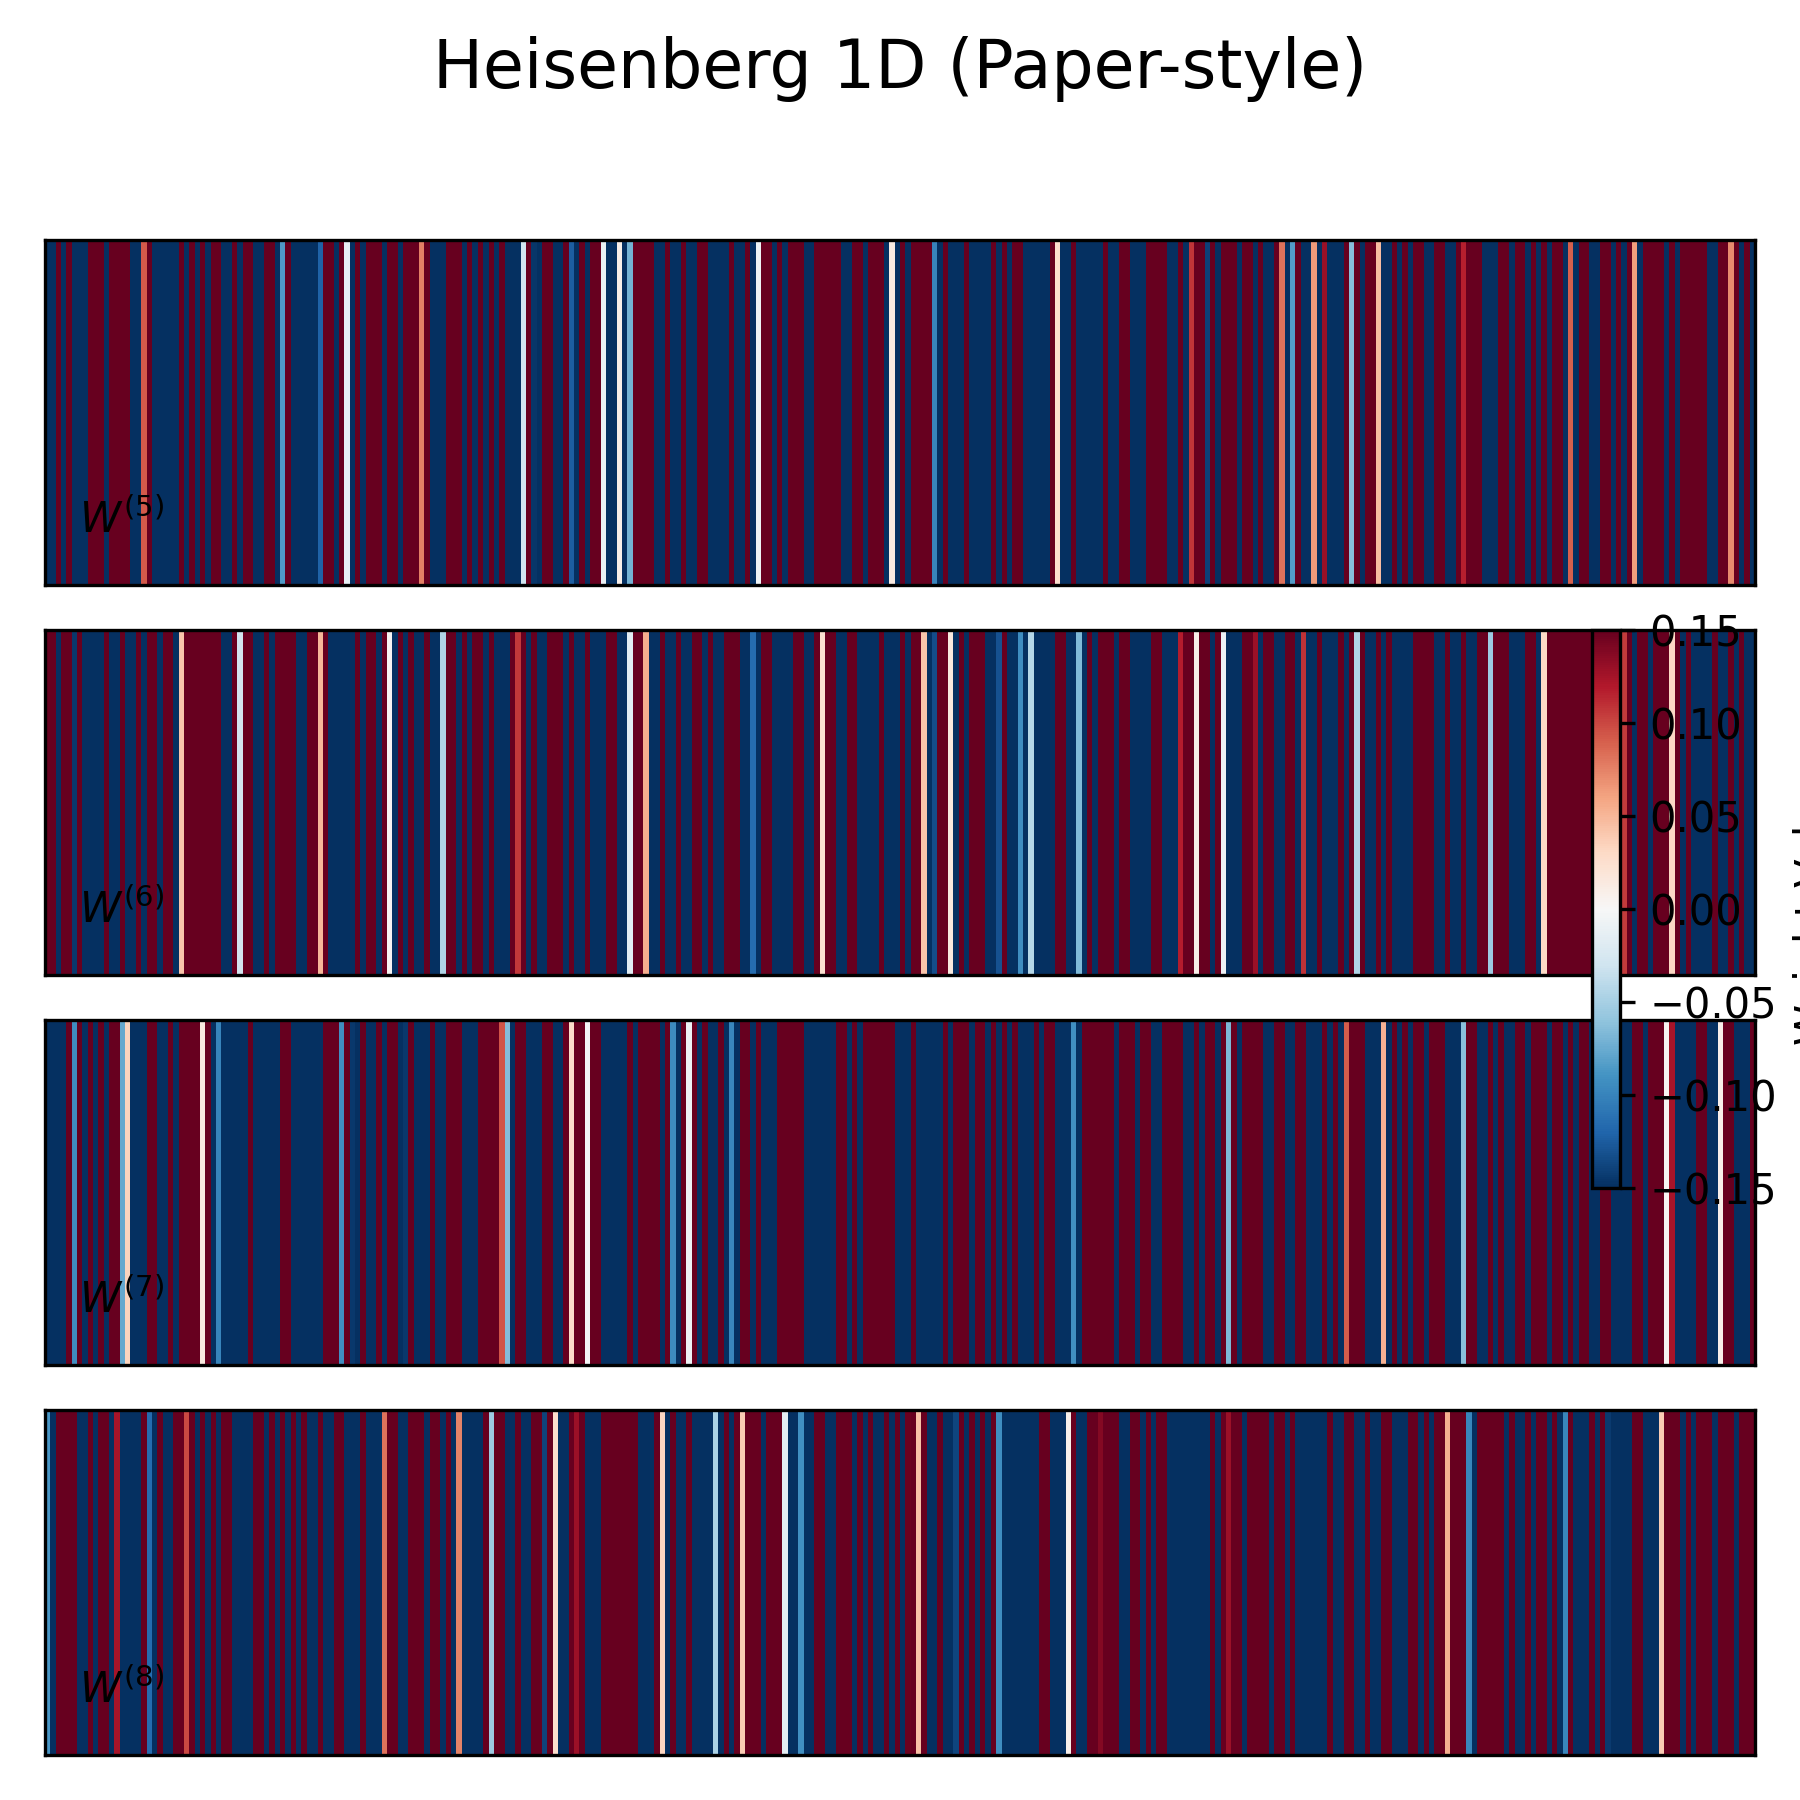
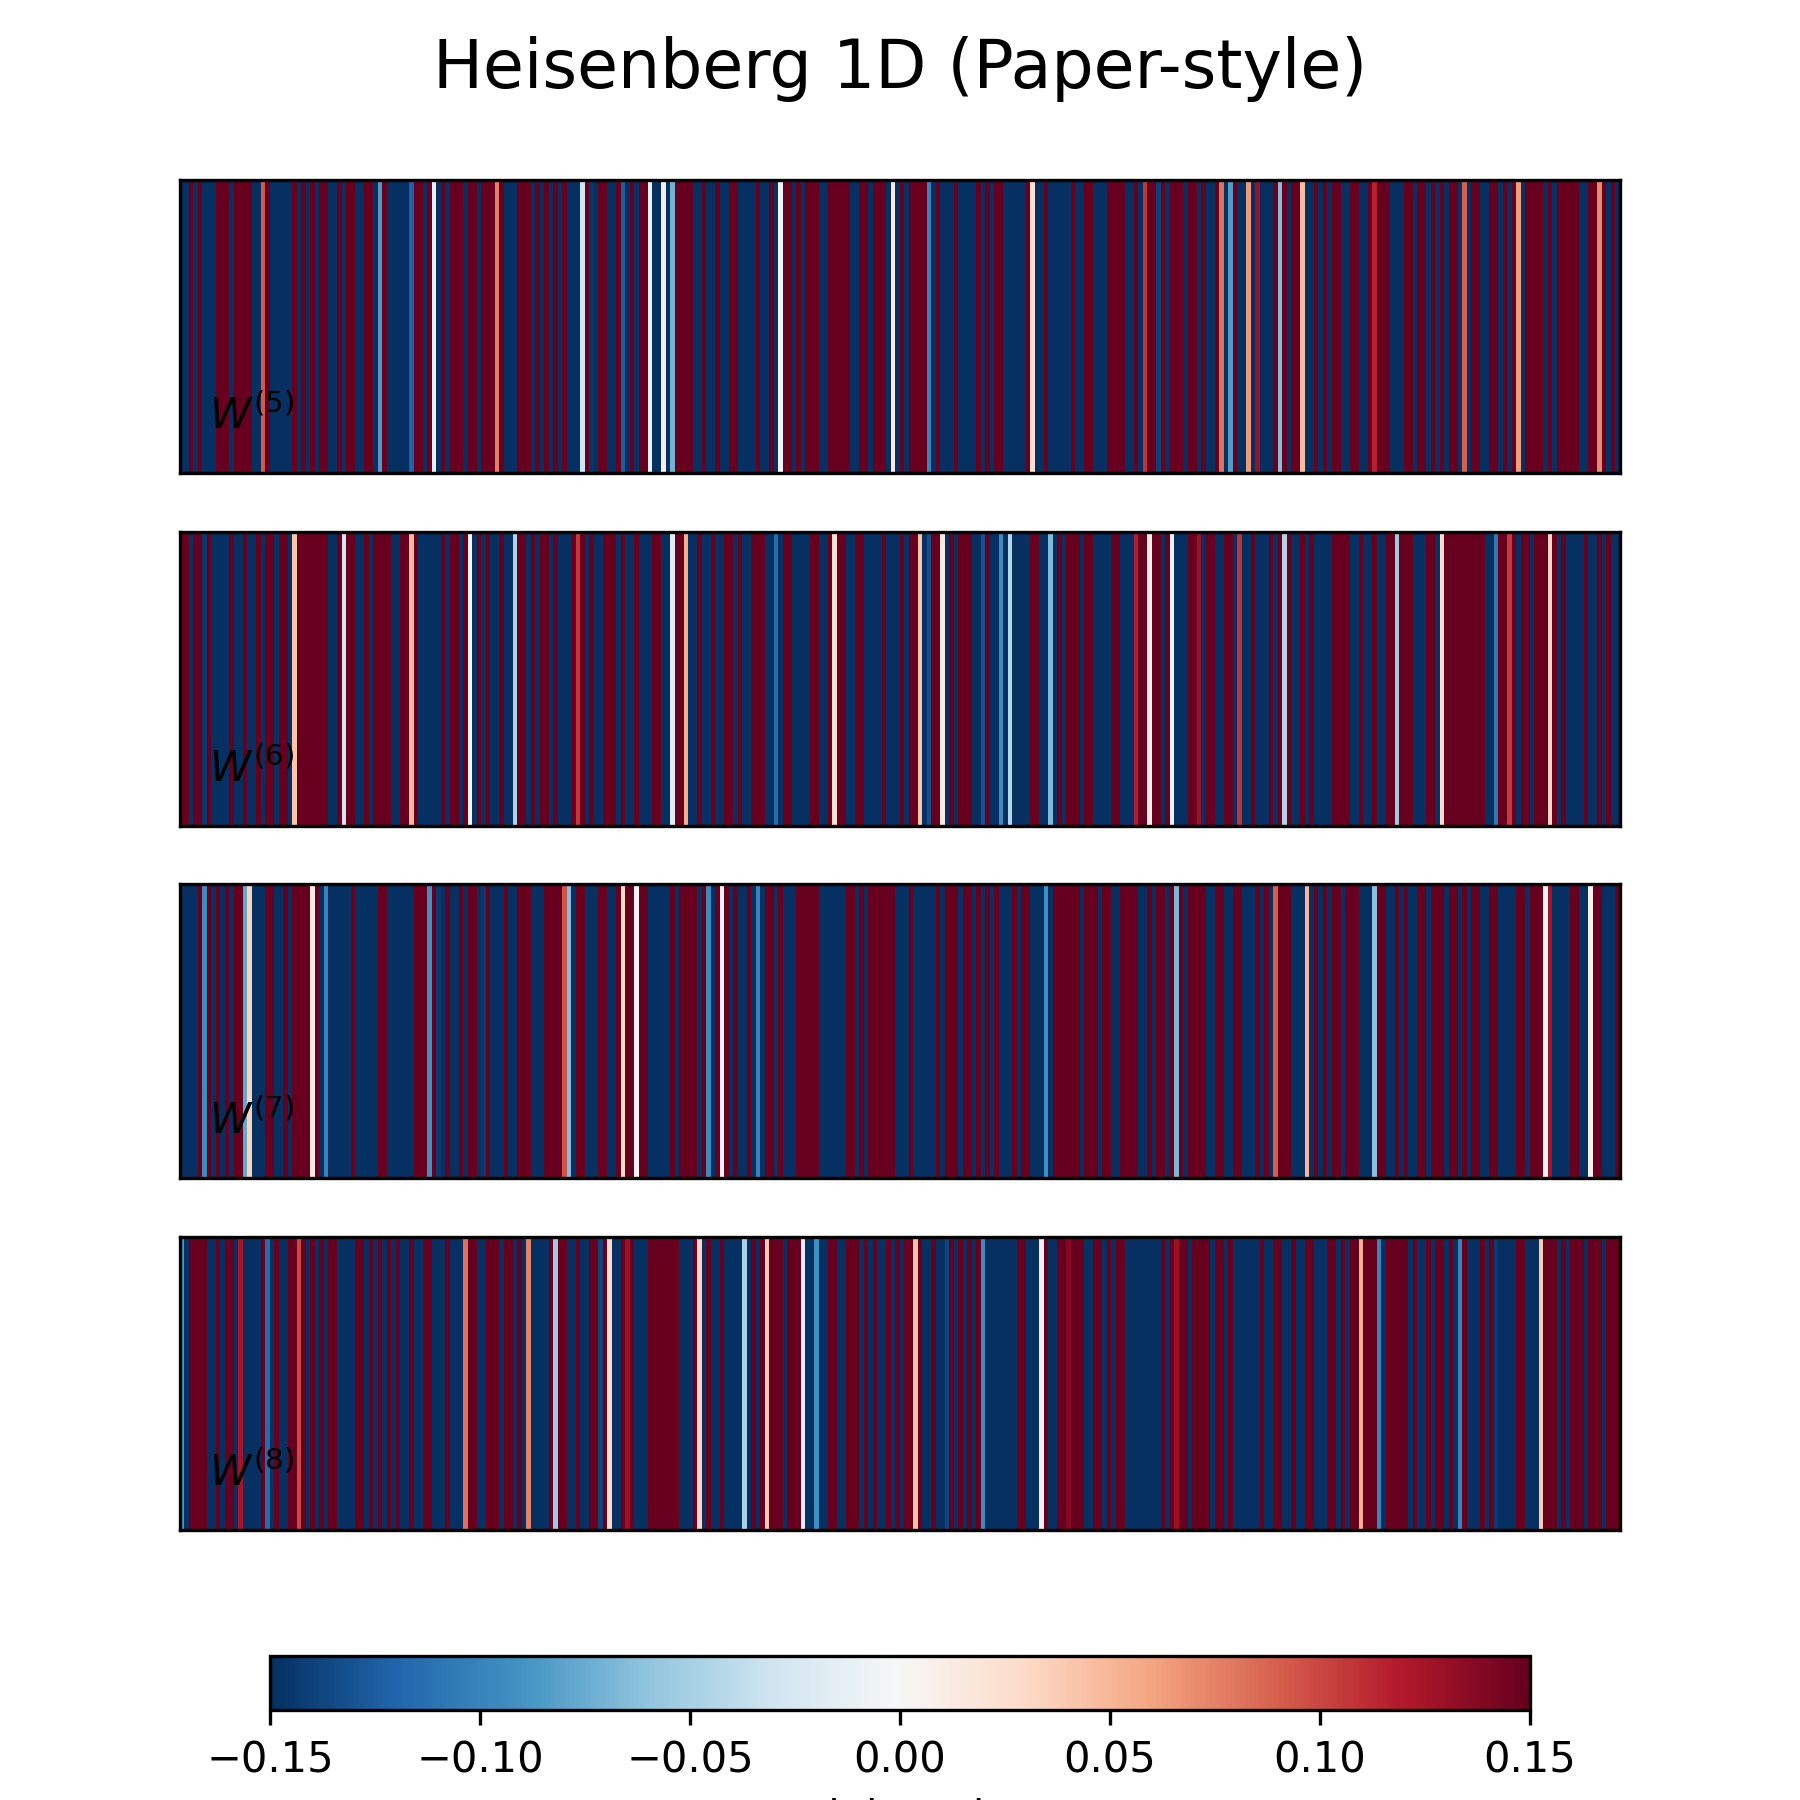
ni

diff --git a/mainrun/5.py b/mainrun/5.py
@@ -9,7 +9,7 @@ from nrbm_model import RBM  # Ensure rbm_model.py is in your working directory
 # =========================
 checkpoint_path = "checkpoint.pth"
 
-# According to the checkpoint shapes, the model was trained with:
+# According to the checkpoint shapes:
 num_visible = 320  # e.g., 320 visible units
 num_hidden = 80    # e.g., 80 hidden units
 
@@ -18,9 +18,9 @@ checkpoint = torch.load(checkpoint_path, map_location="cpu", weights_only=False)
 rbm_state = checkpoint["rbm_state_dict"]
 
 # Manually fix shape mismatches:
-# Checkpoint's 'W' is saved as [320, 80] (visible x hidden), but our model expects [80, 320]
+# Checkpoint's 'W' is [320, 80] (visible x hidden), but our model expects [80, 320]
 model.W.data = rbm_state["W"].t()
-# The checkpoint's visible bias 'a' is a scalar (shape [1]); expand it to a vector of size num_visible.
+# The checkpoint's visible bias 'a' is a scalar; expand it to a vector of size num_visible.
 model.a.data = rbm_state["a"].expand(num_visible)
 # Load hidden bias 'b' as is.
 model.b.data = rbm_state["b"]
@@ -32,7 +32,7 @@ model.b.data = rbm_state["b"]
 W = model.W.detach().numpy()
 # Normalize each filter using z-score normalization.
 W_norm = (W - W.mean(axis=1, keepdims=True)) / W.std(axis=1, keepdims=True)
-# Sort filters by variance in descending order.
+# Sort filters by variance (descending order).
 sorted_idx = np.argsort(np.var(W_norm, axis=1))[::-1]
 W_sorted = W_norm[sorted_idx]
 
@@ -68,18 +68,18 @@ for i, ax in enumerate(axesA):
     ax.set_yticks([])
     label_filter(ax, i)
 
-# Add a single colorbar for all subplots.
-cbarA = figA.colorbar(im, ax=axesA.ravel().tolist(), fraction=0.02, pad=0.04)
+# Adjust subplots and add horizontal color bar at the bottom.
+figA.subplots_adjust(left=0.1, right=0.9, top=0.9, bottom=0.15)
+cbar_axA = figA.add_axes([0.15, 0.05, 0.7, 0.03])  # [left, bottom, width, height]
+cbarA = figA.colorbar(im, cax=cbar_axA, orientation='horizontal')
 cbarA.set_label("Weight Value")
-
-figA.tight_layout(rect=[0, 0, 1, 0.95])
 plt.savefig("figureA_ising_1d.png", dpi=300)
 plt.close(figA)
 
 # ================================
 #   4) FIGURE B: "Heisenberg 1D"
 # ================================
-# Pick the next 4 filters for Heisenberg 1D (as an example)
+# Pick the next 4 filters for Heisenberg 1D (example)
 heis_1d_filters = W_sorted[4:8]
 
 figB, axesB = plt.subplots(nrows=4, ncols=1, figsize=(6, 6))
@@ -91,16 +91,16 @@ for i, ax in enumerate(axesB):
         row_img,
         aspect="auto",
         cmap="RdBu_r",
-        vmin=-0.15, vmax=0.15  # Same color range as Ising 1D
+        vmin=-0.15, vmax=0.15  # Same range as Ising 1D
     )
     ax.set_xticks([])
     ax.set_yticks([])
     label_filter(ax, i + 4)
     
-cbarB = figB.colorbar(im, ax=axesB.ravel().tolist(), fraction=0.02, pad=0.04)
+figB.subplots_adjust(left=0.1, right=0.9, top=0.9, bottom=0.15)
+cbar_axB = figB.add_axes([0.15, 0.05, 0.7, 0.03])
+cbarB = figB.colorbar(im, cax=cbar_axB, orientation='horizontal')
 cbarB.set_label("Weight Value")
-
-figB.tight_layout(rect=[0, 0, 1, 0.95])
 plt.savefig("figureB_heisenberg_1d.png", dpi=300)
 plt.close(figB)
 
@@ -110,8 +110,7 @@ plt.close(figB)
 # Pick 16 filters for Heisenberg 2D (example)
 heis_2d_filters = W_sorted[8:8+16]
 
-# We'll reshape each filter (length 320) into a 2D array.
-# For example, 16 rows x 20 columns (16*20=320).
+# Reshape each filter (length 320) into a 2D array: 16 rows x 20 columns.
 filter_rows, filter_cols = 16, 20
 
 figC, axesC = plt.subplots(nrows=4, ncols=4, figsize=(8, 8))
@@ -123,17 +122,16 @@ for i in range(16):
     im = ax.imshow(
         filt_2d,
         cmap="RdBu_r",
-        vmin=-0.3, vmax=0.3  # Set color range for 2D filters as in the paper
+        vmin=-0.3, vmax=0.3  # Use a wider color range for 2D filters
     )
     ax.set_xticks([])
     ax.set_yticks([])
     label_filter(ax, i + 8)
 
-# Add a colorbar for the 2D montage.
-cbarC = figC.colorbar(im, ax=axesC.ravel().tolist(), fraction=0.02, pad=0.04)
+figC.subplots_adjust(left=0.05, right=0.95, top=0.9, bottom=0.15)
+cbar_axC = figC.add_axes([0.15, 0.05, 0.7, 0.03])
+cbarC = figC.colorbar(im, cax=cbar_axC, orientation='horizontal')
 cbarC.set_label("Weight Value")
-
-figC.tight_layout(rect=[0, 0, 1, 0.95])
 plt.savefig("figureC_heisenberg_2d.png", dpi=300)
 plt.show()
 
